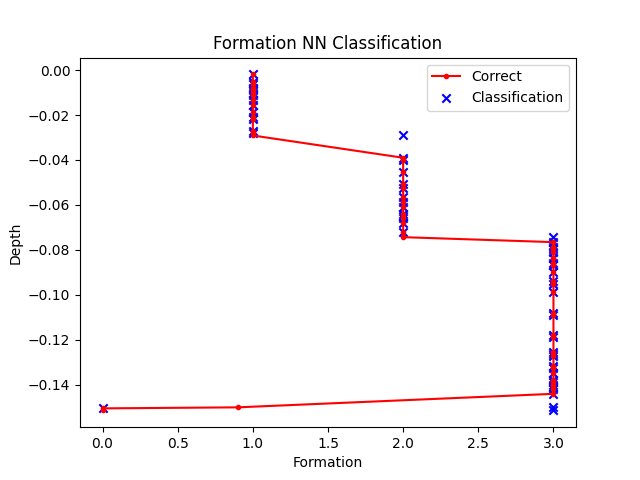
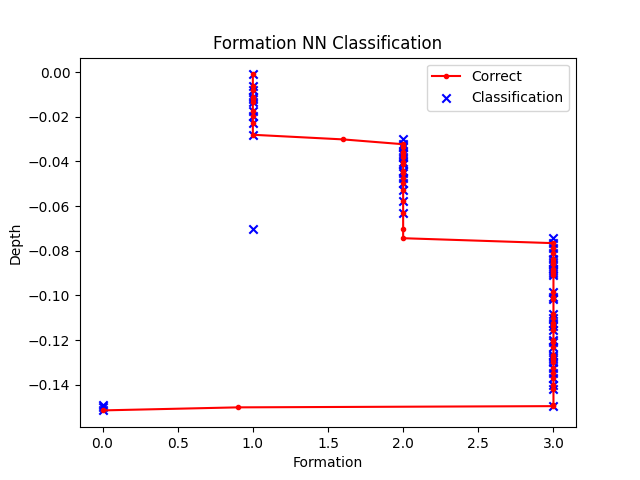
Testing commit

diff --git a/EMCluster.py b/EMCluster.py
@@ -11,7 +11,7 @@ from sklearn import mixture
 
 
 # Parameters:
-n_clusters = 5 # Defines the number of clusters
+n_clusters = 8 # Defines the number of clusters
 
 # Read drilling data from the csv file
 # Columns: time_s cpu_t_degC motor_command active_power_W current_mA arduino_timestamp_ms tacho_rpm imu_x_g imu_y_g imu_z_g WeightOnBit DrillZ1Position_m Formation ROP formation_change
